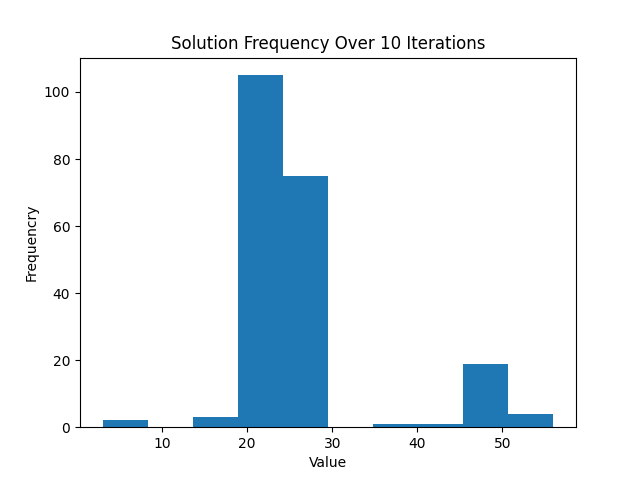
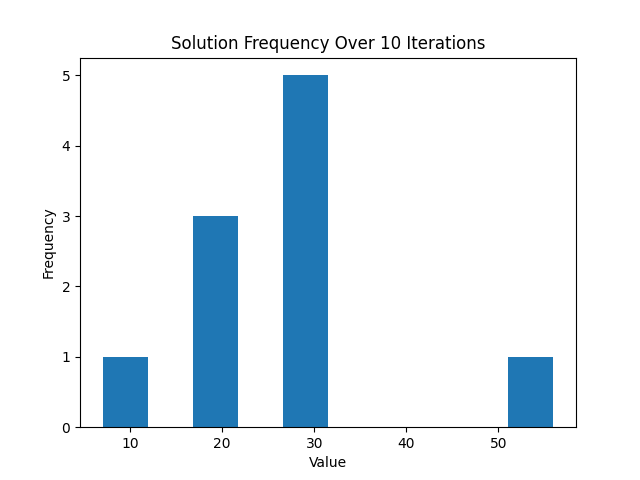
minor changes

diff --git a/BM_samsvers.py b/BM_samsvers.py
@@ -36,7 +36,7 @@ V_end = -1
 step = -0.05
 V_arr = np.arange(V_start,V_end-0.01,step)
 print(V_arr)
-Iter = 1000 # number of Simulations to Run
+Iter = 10 # number of Simulations to Run
 sols = [] # empty array of solutions
 scale = 5e6
 
@@ -59,17 +59,17 @@ for f in range(0, Iter):
                 neurs[0][h] = out
         weighted = (neurs @ W)
     
-        #Function to Convert Binary neurons to Decimal
-        sum = 0
-        for k in range(0, len(neurs[0])):
-            sum += (neurs[0][k] * (2**(len(neurs[0])-k-1)))
-        sols.append(sum) #Save Solution
+    #Function to Convert Binary neurons to Decimal
+    sum = 0
+    for k in range(0, len(neurs[0])):
+        sum += (neurs[0][k] * (2**(len(neurs[0])-k-1)))
+    sols.append(sum) #Save Solution
     print(f'iteration {f}/{Iter}, {sum}, {bin(sum)}')
 
 #Graphing of Histogram
 np.save('./sam_outputs/hist.npy',sols)
 plt.hist(sols,bins=10)
 plt.xlabel('Value')
-plt.ylabel('Frequencry')
+plt.ylabel('Frequency')
 plt.title('Solution Frequency Over ' + str(Iter) + ' Iterations')
 plt.savefig('./sam_outputs/' + target_dir + '_' + str(Iter) + '_Histogram.png')
